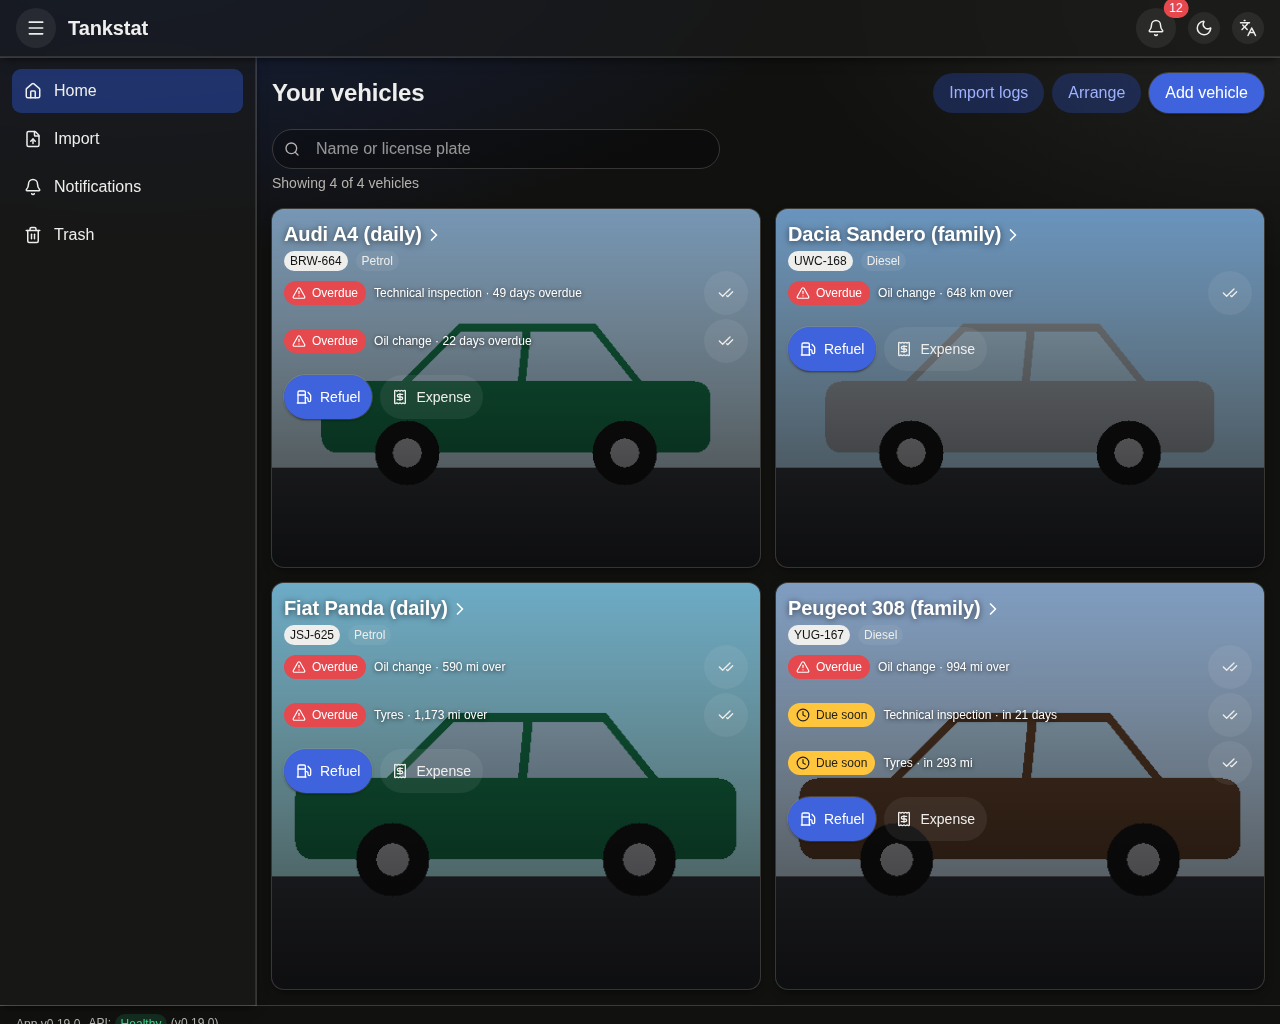
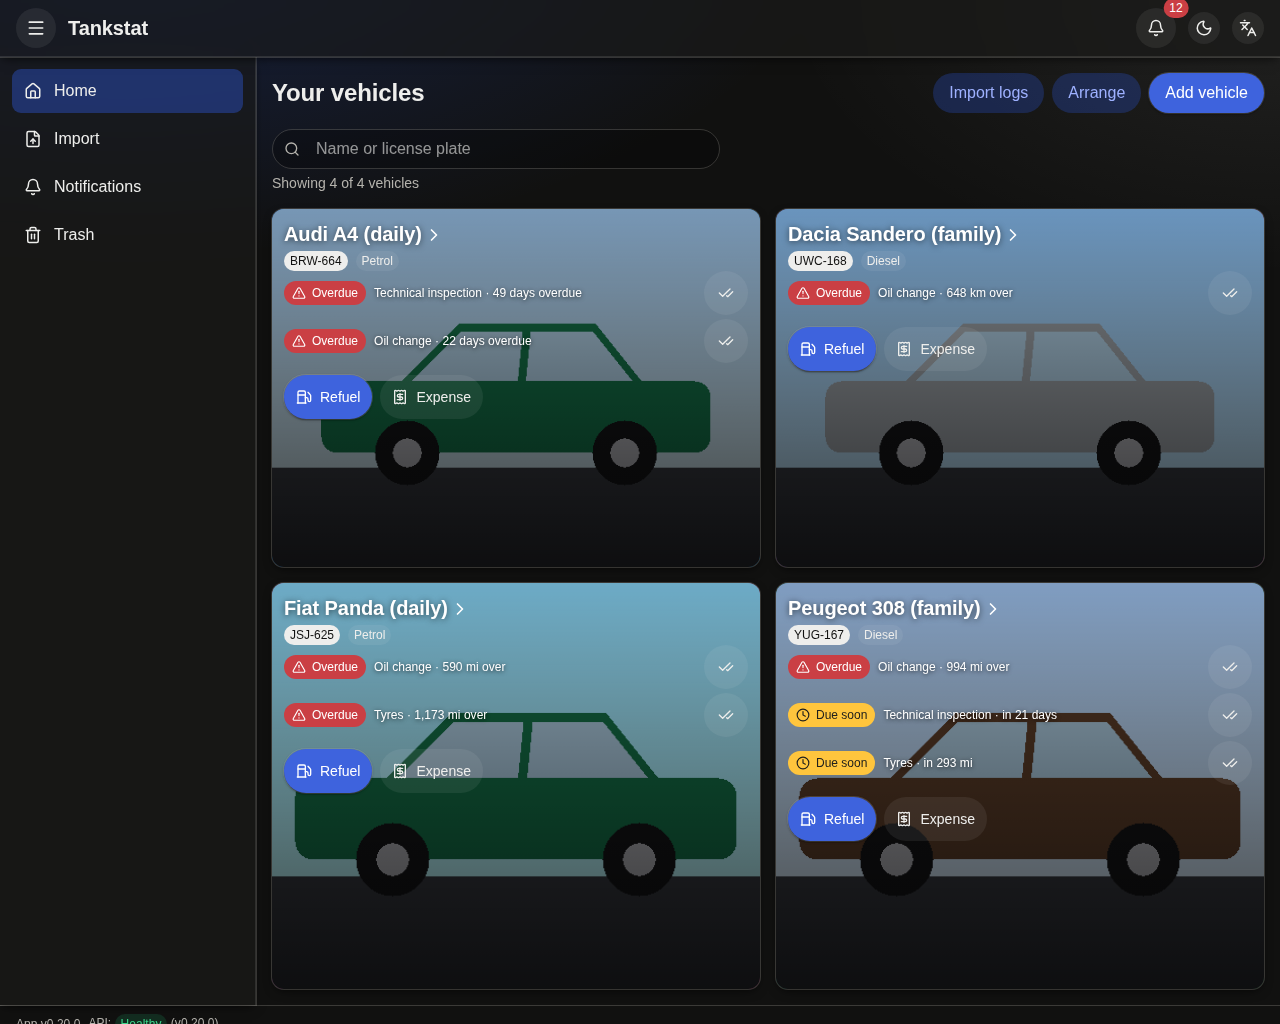
Changelog for 0.20.0, the Compose example runs 0.20, and the screenshots show the key figures as recipes
The section covers what was merged since 0.19.7: one builder for every dashboard widget with Add widget's three
groups (#275), saved key figures beside saved charts (#273), every key figure drawn from one query and recipe (#272,
#274), and the pencil and bin on every tile. One migration (SavedWidgets) and the layout version 3. The README's
screenshots are taken again (VERSION=0.20.0 mise run screenshots): Spent this month now compares with the month before.

Claude-Session: https://claude.ai/code/session_01Xkt1hhMihmoVCeN5z64fti

diff --git a/CHANGELOG.md b/CHANGELOG.md
@@ -2,6 +2,50 @@
 
 Every release of Tankstat, newest first. Each one is a Docker image, `ghcr.io/carathorys/tankstat:<version>`, and a [GitHub release](https://github.com/carathorys/tankstat/releases). The numbers in brackets are the pull requests. Pre-releases (the previews) are not listed: their changes are in the release that followed them.
 
+## 0.20.0 (2026-11-05)
+
+### Added
+
+- **One builder for every dashboard widget** (#271, #275: #280). In *Customize*, *Add widget* has three groups:
+  - **Start from:** the eight key figures and the ten ready-made charts. One already on the dashboard is marked *On the dashboard* and can still be added again.
+  - **Your widgets:** the saved ones that are not on this dashboard. A bin deletes one you may delete, after a confirmation.
+  - **From scratch.**
+
+  The builder makes a key figure or a chart:
+  - **A key figure:** any of 13 measures (spending, fuel cost, expenses, fuel volume, distance, consumption, prices, cost per distance, fill-ups, the odometer, the last fill-up) over a period. It can be compared with the period before, the same dates a year earlier, or nothing, and can show the last six months as a sparkline. *This month* is now among the quick picks.
+  - **A chart:** the chart builder as before.
+
+  Both have a live preview. *Add to the dashboard* puts the widget in the arrangement. *Also save to my widgets* saves it as well: shared when saved on Everyone's dashboard, private on your own.
+- **Saved widgets can be key figures as well as charts** (#273: #277). Up to 30 per vehicle and user, both kinds counted together.
+- **A pencil and a bin on every tile** while customizing (#275: #280). The pencil opens the builder:
+  - **A tile in the arrangement** changes in place.
+  - **Your own saved widget** asks each time: *Only on this dashboard* (a copy takes its place) or *Change it everywhere*.
+  - **Someone else's saved widget** is saved as your own in its place.
+
+  The bin takes a tile off this dashboard only: a saved widget stays in *Your widgets*. A tag under the tile's strip says where the widget lives: *In this arrangement*, *Saved*, or *Saved · shared by …*. On a desktop, a tile one column wide has the pencil and the bin in its ⋮ menu (*Edit…*, *Remove*).
+
+### Changed
+
+- **Every key figure is drawn the same way** (#274: #279), from one query for any measure over a period (#272: #276). The dashboard looks as before, except for *Spent this month*:
+  - it is compared with the whole month before, in place of the "Last month: …" note;
+  - its other currencies are its note.
+- **Charts no longer have a share switch** (#275: #280). A widget is shared by saving it on Everyone's dashboard. *Customize as my chart…* in a tile's menu and the separate chart dialogs are gone: the pencil does what they did.
+
+### Upgrading
+
+- **One database migration (`SavedWidgets`)** runs at the first start, for every provider. Every saved chart stays a chart. As always since 0.15, a backup is written into `data/backups` before the migration.
+- **Dashboards saved by 0.20 use a new arrangement format** (layout version 3). A 0.19 web app still open cannot save a dashboard and says to reload the page; *Reload* on the update notice fixes it. To go back to 0.19, restore the backup written before the migration: 0.19 knows neither saved key figures nor the new tiles.
+- **The GraphQL schema only gains fields:** `vehicleFigure`, `vehicleWidgets` and `saveVehicleWidget` (with `SavedWidget`, `FigureRecipe` and `TileRecipe`), a tile's `recipe`, and `SaveDashboardLayoutInput.layoutVersion`. `vehicleCharts`, `saveVehicleChart` and `vehicleTrend` stay for older apps.
+- The Docker Compose example now runs 0.20 (`TANKSTAT_VERSION` in `.env.example`).
+
+### For developers
+
+- **Tile ids:** `tile:<uuid>` tiles carry their own `TileRecipe`: a chart's `ChartConfig` with an optional ready-made `template`, or a figure's `FigureRecipe`. Old figure ids and `preset:` ids are read as recipes and written as `tile:` on the next save.
+- **The layout version** (`DashboardLayoutValues.LayoutVersion`, `widgets.ts` `LAYOUT_VERSION`, `e2e/support/app.ts`) rises whenever tiles an older app would drop start being saved, and a save from an older version is refused with `dashboard.updateApp`.
+- **The builder** is `WidgetForm` over the pure `widgetDraft.ts`. *Add widget* is `AddWidgetDialog`, the pencil is `WidgetEditDialog`. `ChartForm`, `ChartBuilderDialog`, `TrendFigurePane` and the `SaveChart` document are gone.
+- **Tile ids come from `uuidV4`**, never `crypto.randomUUID`, which exists only in secure contexts, so saving works over plain HTTP.
+- **New real-browser tests** at both sizes: a key figure from scratch, a template added again, and a saved widget edited only here and then everywhere and deleted. The README's screenshots are retaken.
+
 ## 0.19.7 (2026-11-04)
 
 A bugfix release for customizing the dashboard.
